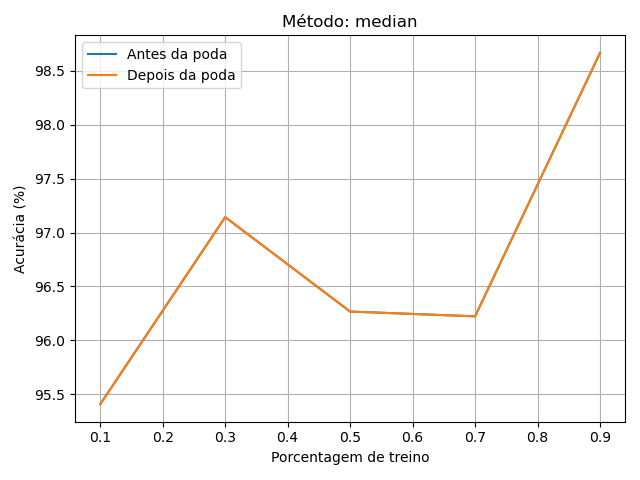
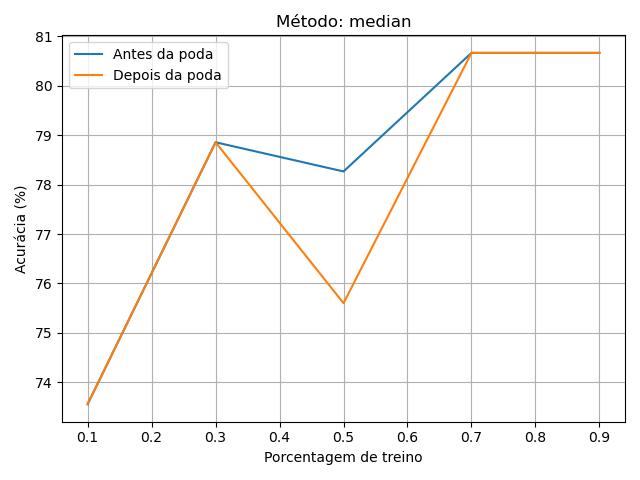
Atualização no pruning

diff --git a/t2/c45.py b/t2/c45.py
@@ -4,7 +4,8 @@ from scipy.stats import norm
 import matplotlib.pyplot as plt
 import os
 
-MAX_DEPTH = 5
+MAX_DEPTH = 1
+NOS_PODADOS = 0
 
 class c45Node:
     def __init__(self, data, lvl=0, maxDepth=MAX_DEPTH, entropy=None, method='entropy'):
@@ -19,41 +20,36 @@ class c45Node:
         else:
             self.entropy = entropy
         self.method = method
-        # self.testData = data[0:len(data) / 2]
-        # self.buildData = data[len(data) / 2 : len(data) ]
 
-    def build_tree(self):   
-        # Adiciona critério de parada aqui... 
-        # 
-        if self.lvl > MAX_DEPTH:
-            return    
+    def count_nodes(self):
+        count = 1  # Conta o nó atual
+        for child in self.children:
+            count += child.count_nodes()
+        return count
+    
+    def build_tree(self):
+        if self.lvl > MAX_DEPTH or len(self.data) == 0:
+            return
         att = None
         minEntropy = None
         minEntropyThreshold = None
-        if len(self.data) == 0:
-            return
-        for i in range(len(self.data[0])- 1): # -1 para ignorar a classe
-            # Ordena os dados para o atributo
+        for i in range(len(self.data[0])-1):
             self.data = sorted(self.data, key=lambda x: x[i])
-            # Calcula a entropia para cada atributo
             threshold = self.calcThreshold(i, method=self.method)
             if threshold is None:
-                # Se não houver threshold, ignora
                 continue
             entropy1 = self.calcEntropy([row for row in self.data if row[i] < threshold])
             entropy2 = self.calcEntropy([row for row in self.data if row[i] >= threshold])
             entropy = entropy1 + entropy2
-            # Se a entropia for a menor até agora, atualiza
             if minEntropy is None or entropy < minEntropy:
                 minEntropy = entropy
                 minEntropyThreshold = threshold
                 att = i
-        # Se não houver atributo, retorna
         if att is None:
             return
         self.attribute = att
+        #print(f"Dividindo no atributo {att} com threshold {minEntropyThreshold} (entropia: {minEntropy})")
         self.threshold = minEntropyThreshold
-        # Separa o conjunto de dados em 2
         self.separateData(att, minEntropyThreshold, entropy1, entropy2)
         for child in self.children:
             child.build_tree()
@@ -68,51 +64,34 @@ class c45Node:
         else:
             raise ValueError("Método de cálculo de threshold desconhecido: {}".format(method))
 
-    # Mediana  
     def calcMedThreshold(self, attribute):
-        # Extrai os valores do atributo (já estão ordenados)
         values = [row[attribute] for row in self.data]
         n = len(values)
-        # Calcula a mediana
         if n % 2 == 1:
             return values[n // 2]
         else:
             return (values[n // 2 - 1] + values[n // 2]) / 2
-        
-    # Média
+
     def calcAvgThreshold(self, attribute):
-        # Extrai os valores do atributo (já estão ordenados, mas não importa para a média)
         values = [row[attribute] for row in self.data]
-        # Retorna a média
         return sum(values) / len(values) if values else 0
 
-    # Pela entropia mínima
     def calcEntThreshold(self, attribute):
         best_threshold = None
         best_entropy = float('inf')
-
         for i in range(len(self.data) - 1):
             class_curr = self.data[i][-1]
             class_next = self.data[i + 1][-1]
-
-            # Só considera pares com classes diferentes
             if class_curr != class_next:
                 threshold = (self.data[i][attribute] + self.data[i + 1][attribute]) / 2
-
-                # Separa os dados pelo threshold
                 left = [x for x in self.data if x[attribute] < threshold]
                 right = [x for x in self.data if x[attribute] >= threshold]
-
-                # Calcula entropia ponderada
                 total = len(self.data)
                 entropy = (len(left) / total) * self.calcEntropy(left) + (len(right) / total) * self.calcEntropy(right)
-
-                # Atualiza o melhor threshold
                 if entropy < best_entropy:
                     best_entropy = entropy
                     best_threshold = threshold
-
-        return best_threshold        
+        return best_threshold
 
     def calcEntropy(self, data=None):
         if data is None:
@@ -127,11 +106,10 @@ class c45Node:
                 ent -= f * math.log2(f)
         return ent
 
-
     def separateData(self, attribute, threshold, entropy1, entropy2):
-        # Filtra dados com atributo < threshold
+        if self.lvl > self.maxDepth:
+            return
         left_data = [row for row in self.data if row[attribute] < threshold]
-        # Filtra dados com atributo >= threshold
         right_data = [row for row in self.data if row[attribute] >= threshold]
         if len(left_data) == 0 or len(right_data) == 0:
             return
@@ -140,15 +118,12 @@ class c45Node:
             c45Node(data=right_data, lvl=self.lvl+1, maxDepth=self.maxDepth, entropy=entropy2, method=self.method)
         ]
 
-        
     def classify(self, data):
         if self.children == []:
-            # Contar frequência das classes
             class_counts = {}
             for item in self.data:
                 label = item[-1]
                 class_counts[label] = class_counts.get(label, 0) + 1
-            # Retornar a classe mais frequente
             return max(class_counts.items(), key=lambda x: x[1])[0]
         else:
             if data[self.attribute] < self.threshold:
@@ -161,20 +136,39 @@ def validate(data, tree):
     for i in range(len(data)):
         if int(tree.classify(data[i])) == int(data[i][-1]):
             correct += 1
+        print(f"Classificando {i+1}/{len(data)}: {data[i]} -> {tree.classify(data[i])} (esperado: {data[i][-1]})")
     return correct / len(data)
 
-def pruning(tree, confidence, expectedError, z=None):
+def pruning(tree, confidence, z=None, pruning_data=None):
+    global NOS_PODADOS
     if z is None:
         z = norm.ppf((1 + confidence) / 2)
-    averageError = 0
+    if pruning_data is None:
+        pruning_data = tree.data
+
     for child in tree.children:
-        if len(child.children) > 0:
-            averageError += pruning(child, confidence, expectedError, z) / len(tree.children)
-    # Poda
-    if averageError > expectedError:
-        tree.children.clear()
-    
-    return calcErrorRate(tree, tree.data, z)
+        pruning(child, confidence, z, pruning_data)
+
+    if tree.children:
+        error_subtree = calcErrorRate(tree, pruning_data, z)
+        majority_class = get_majority_class(tree.data)
+        error_as_leaf = calcLeafErrorRate(tree, pruning_data, majority_class, z)
+
+        if error_as_leaf <= error_subtree:
+            tree.children.clear()
+            tree.attribute = None
+            tree.threshold = None
+            NOS_PODADOS += 1
+
+def get_majority_class(data):
+    from collections import Counter
+    labels = [row[-1] for row in data]
+    return Counter(labels).most_common(1)[0][0]
+
+def calcLeafErrorRate(tree, data, majority_class, z):
+    errors = sum(1 for row in data if row[-1] != majority_class)
+    f = errors / len(data)
+    return f + z * math.sqrt((f * (1 - f)) / len(data))
 
 def calcErrorRate(tree, data, z):
     f = 0
@@ -182,19 +176,17 @@ def calcErrorRate(tree, data, z):
         if int(tree.classify(data[i])) != int(data[i][-1]):
             f += 1
     f = f / len(data)
-    # Taxa de erro (upper bound)
     return f + z * math.sqrt((f * (1 - f)) / len(data))
 
 def testar_variacoes(data_path="dataset/treino_sinais_vitais_com_label.csv"):
+    global NOS_PODADOS
     data = pd.read_csv(data_path).values
     training_percentages = [0.1, 0.3, 0.5, 0.7, 0.9]
     methods = ['median', 'average', 'entropy']
-    confidence = 0.2
-    expectedError = 0.1
+    confidence = 0
     maxDepth = 3
 
     resultados = {method: {'antes': [], 'depois': []} for method in methods}
-
     os.makedirs("graficos/c45", exist_ok=True)
 
     for method in methods:
@@ -202,17 +194,27 @@ def testar_variacoes(data_path="dataset/treino_sinais_vitais_com_label.csv"):
             treino = data[:int(len(data)*perc)]
             teste = data[int(len(data)*perc):]
 
-            tree = c45Node(treino, maxDepth=maxDepth, method=method)
-            tree.build_tree()
-            acc_antes = validate(teste, tree)
+            split_index = int(len(treino) * 0.7)
+            treino_construcao = treino[:split_index]
+            treino_validacao = treino[split_index:]
 
-            pruning(tree, confidence, expectedError)
+            tree = c45Node(treino_construcao, maxDepth=maxDepth, method=method)
+            tree.build_tree()
+
+            acc_antes = validate(teste, tree)
+            NOS_PODADOS = 0
+            #print(f"Número de nós antes da poda: {tree.count_nodes()}")
+            pruning(tree, confidence=confidence, pruning_data=treino_validacao)
             acc_depois = validate(teste, tree)
+            #print(f"Número de nós depois da poda: {tree.count_nodes()}")
+            #print(f"[{method.upper()} - {int(perc*100)}% treino] Nós podados: {NOS_PODADOS}")
+            #print(f"Acurácias método {method}:")
+            #print("Antes:", acc_antes)
+            #print("Depois:", acc_depois)
 
             resultados[method]['antes'].append(acc_antes)
             resultados[method]['depois'].append(acc_depois)
 
-        # Salvar gráfico
         plt.figure()
         plt.plot(training_percentages, [x * 100 for x in resultados[method]['antes']], label='Antes da poda')
         plt.plot(training_percentages, [x * 100 for x in resultados[method]['depois']], label='Depois da poda')
@@ -224,7 +226,6 @@ def testar_variacoes(data_path="dataset/treino_sinais_vitais_com_label.csv"):
         plt.tight_layout()
         plt.savefig(f"graficos/c45/{method}_acuracia.png")
         plt.close()
-
 
 if __name__ == "__main__":
     testar_variacoes()
